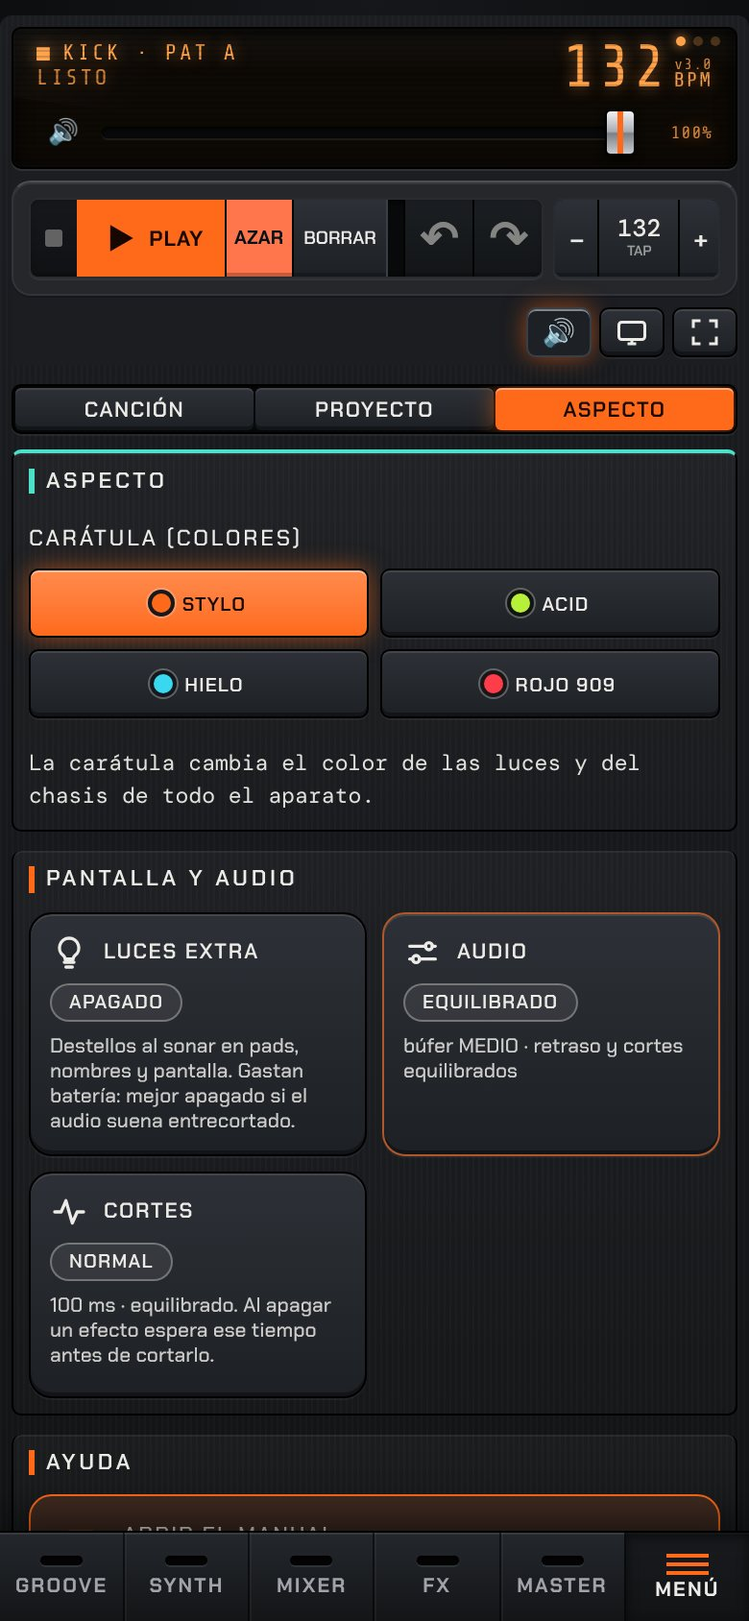
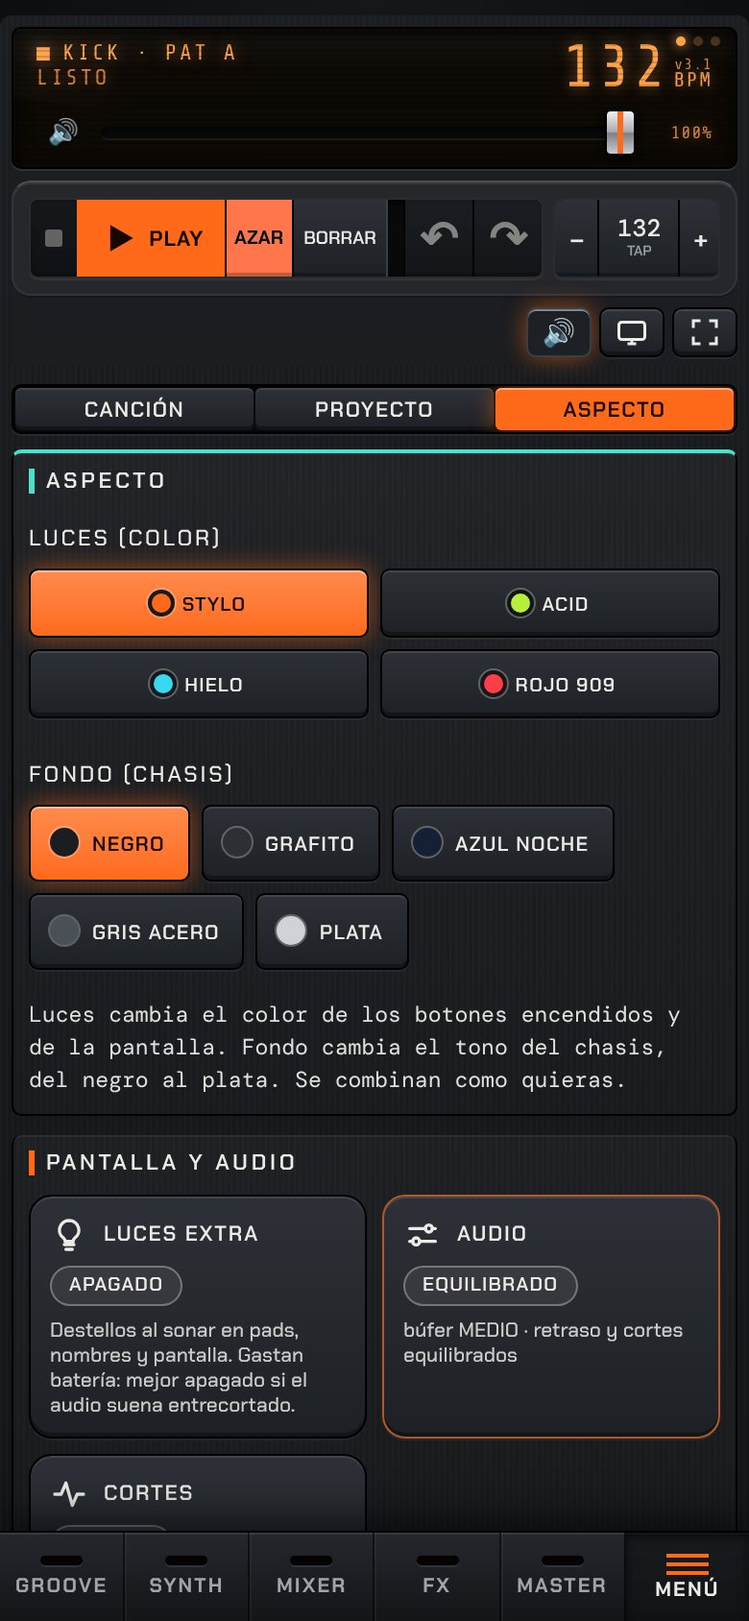
v3.1: selector de fondo del chasis (Negro, Grafito, Azul noche, Gris acero, Plata)
- Aspecto: fila Fondo aparte del color de las luces; se combinan.
- La pantalla, la rejilla y las ranuras siguen oscuras en todos.
- Ajuste del dispositivo (clave bg en SAVE); no cambia el guardado.
- Manual, captura de Aspecto, CHANGELOG y AGENTS.md actualizados.

Claude-Session: https://claude.ai/code/session_014KBobpF2M55M86nWwyjQnt

diff --git a/styles.css b/styles.css
@@ -1022,32 +1022,32 @@ body{padding-bottom:calc(var(--nav) + env(safe-area-inset-bottom,0px))}
 :root[data-skin="acid"]{--on:#b6f03a;--led:#b6f03a;--onfg:#0d1400;--lcd:#070c05;--lcdfg:#c4f45c;--dev:#161813;--dev2:#0f110d;--snd:#e0dccf}
 :root[data-skin="ice"]{--on:#3ad8f0;--led:#3ad8f0;--onfg:#001318;--lcd:#050b0e;--lcdfg:#6fe6f7;--dev:#15191d;--dev2:#0e1114;--snd:#d6dde2}
 :root[data-skin="rojo"]{--on:#ff4a55;--led:#ff4a55;--onfg:#1a0003;--lcd:#0e0607;--lcdfg:#ff7a82;--dev:#1b1819;--dev2:#121011;--snd:#e2d9d6}
-body{background:radial-gradient(120% 60% at 50% 0,#15171a 0,var(--page) 70%) fixed var(--page)}
+body{background:radial-gradient(120% 60% at 50% 0,var(--pg2) 0,var(--page) 70%) fixed var(--page)}
 .device{background:repeating-linear-gradient(90deg,rgba(255,255,255,.014) 0 1px,transparent 1px 3px),linear-gradient(180deg,var(--dev) 0,var(--dev2) 100%);box-shadow:inset 0 1px 0 rgba(255,255,255,.07)}
 :root :is(.step,.fn,.seg,.chip .nm,.nm2,.lcd,.card,select,.fad,.pn,.tg,.sk,.pre,.prb,.modeb,.more,.more2){border-radius:5px}
 
 /* pantalla: cristal hundido con texto de fósforo */
-.lcd{background:linear-gradient(180deg,rgba(255,255,255,.05),transparent 30%),var(--lcd);border:1px solid #000;box-shadow:inset 0 2px 10px #000,inset 0 0 0 1px rgba(255,255,255,.03),0 1px 0 rgba(255,255,255,.09);font-family:var(--lcdf)}
+.lcd{background:linear-gradient(180deg,rgba(255,255,255,.05),transparent 30%),var(--lcd);border:1px solid var(--ln);box-shadow:inset 0 2px 10px #000,inset 0 0 0 1px rgba(255,255,255,.03),0 1px 0 rgba(255,255,255,.09);font-family:var(--lcdf)}
 .lcd .l1,.lcd .l2,.lcd .big,.lcd .big small,.lcd output{font-family:var(--lcdf);text-shadow:0 0 8px color-mix(in srgb,var(--lcdfg) 55%,transparent)}
 .lcd .l1,.lcd .l2{font-size:11.5px;letter-spacing:.12em}
 .lcd .big{letter-spacing:.04em}
 .lcd .ver{font-family:var(--lcdf)}
 
 /* teclas: plástico con bisel; encendidas = retroiluminadas */
-.seg{background:var(--slot);border-color:#000;box-shadow:inset 0 1px 3px #000,0 1px 0 rgba(255,255,255,.06);gap:1px;padding:1px}
+.seg{background:var(--slot);border-color:var(--ln);box-shadow:inset 0 1px 3px #000,0 1px 0 rgba(255,255,255,.06);gap:1px;padding:1px}
 .seg>button,.seg>.val{border-left:0;border-radius:3px;background:linear-gradient(180deg,var(--key2),var(--key));box-shadow:inset 0 1px 0 rgba(255,255,255,.1),inset 0 -2px 0 rgba(0,0,0,.35);font-weight:600;font-size:11px;letter-spacing:.07em}
 .seg>button:active{background:var(--key);box-shadow:inset 0 2px 4px #000}
 .seg>button[aria-pressed="true"],.seg>button[aria-selected="true"]{background:linear-gradient(180deg,color-mix(in srgb,var(--on),#fff 22%),var(--on));color:var(--onfg);box-shadow:inset 0 1px 0 rgba(255,255,255,.45),0 0 12px color-mix(in srgb,var(--on) 55%,transparent)}
-.fn,.tg,.prb,.modeb,.pre,.card .sk{background:linear-gradient(180deg,var(--key2),var(--key));border:1px solid #000;box-shadow:inset 0 1px 0 rgba(255,255,255,.1),inset 0 -2px 0 rgba(0,0,0,.35),0 1px 0 rgba(255,255,255,.05);font-weight:600;color:var(--fg)}
+.fn,.tg,.prb,.modeb,.pre,.card .sk{background:linear-gradient(180deg,var(--key2),var(--key));border:1px solid var(--ln);box-shadow:inset 0 1px 0 rgba(255,255,255,.1),inset 0 -2px 0 rgba(0,0,0,.35),0 1px 0 rgba(255,255,255,.05);font-weight:600;color:var(--fg)}
 .fn{font-size:11px}.tg{font-size:10.5px;border-radius:4px}
 :is(.fn,.tg,.prb,.pre,.card .sk):active{box-shadow:inset 0 2px 5px #000}
-:is(.fn,.tg,.prb,.pre,.card .sk)[aria-pressed="true"]{background:linear-gradient(180deg,color-mix(in srgb,var(--on),#fff 22%),var(--on));color:var(--onfg);border-color:#000;box-shadow:inset 0 1px 0 rgba(255,255,255,.45),0 0 12px color-mix(in srgb,var(--on) 55%,transparent)}
+:is(.fn,.tg,.prb,.pre,.card .sk)[aria-pressed="true"]{background:linear-gradient(180deg,color-mix(in srgb,var(--on),#fff 22%),var(--on));color:var(--onfg);border-color:var(--ln);box-shadow:inset 0 1px 0 rgba(255,255,255,.45),0 0 12px color-mix(in srgb,var(--on) 55%,transparent)}
 .sdh .seg>button[aria-pressed="true"],.sdb .seg>button[aria-pressed="true"],.sdb .tg[aria-pressed="true"],.sdb .pre[aria-pressed="true"]{background:linear-gradient(180deg,#fff,var(--snd));color:var(--sndfg);box-shadow:inset 0 1px 0 #fff,0 0 10px color-mix(in srgb,var(--snd) 45%,transparent)}
 #play[aria-pressed="true"]{animation:none}
 .trans .seg{background:var(--slot)}
 
 /* paneles: placa atornillada con rótulo serigrafiado */
-.card,.more,.more2{background:linear-gradient(180deg,rgba(255,255,255,.035),rgba(255,255,255,.01));border:1px solid #000;box-shadow:inset 0 1px 0 rgba(255,255,255,.06)}
+.card,.more,.more2{background:linear-gradient(180deg,rgba(255,255,255,.035),rgba(255,255,255,.01));border:1px solid var(--ln);box-shadow:inset 0 1px 0 rgba(255,255,255,.06)}
 .card h3,.card .hd2 h3{font-size:11.5px;font-weight:600;letter-spacing:.16em;color:var(--fg)}
 .note,.hint{font-family:var(--mono);line-height:1.45}
 .k label{font-weight:600;letter-spacing:.08em}
@@ -1060,25 +1060,25 @@ input[type=range]{--tc:var(--on)}
 .sbp input[type=range]{--tc:#f0a040}
 input[type=range]::-webkit-slider-runnable-track{background:var(--slot);box-shadow:inset 0 1px 2px #000,0 1px 0 rgba(255,255,255,.07)}
 input[type=range]::-moz-range-track{background:var(--slot);box-shadow:inset 0 1px 2px #000,0 1px 0 rgba(255,255,255,.07)}
-input[type=range]::-webkit-slider-thumb,.fxc input[type=range]::-webkit-slider-thumb,.msbar input[type=range]::-webkit-slider-thumb,#t-canal input[type=range]::-webkit-slider-thumb,.sbp input[type=range]::-webkit-slider-thumb{width:16px;height:24px;margin-top:-9px;border-radius:3px;border:1px solid #000;background:linear-gradient(90deg,transparent 40%,var(--tc) 40% 60%,transparent 60%),linear-gradient(180deg,#f1f2f3 0,#a9adb3 48%,#7c8087 52%,#c9ccd0 100%);box-shadow:0 2px 4px rgba(0,0,0,.7)}
-input[type=range]::-moz-range-thumb,.fxc input[type=range]::-moz-range-thumb,.msbar input[type=range]::-moz-range-thumb,#t-canal input[type=range]::-moz-range-thumb,.sbp input[type=range]::-moz-range-thumb{width:14px;height:22px;border-radius:3px;border:1px solid #000;background:linear-gradient(90deg,transparent 40%,var(--tc) 40% 60%,transparent 60%),linear-gradient(180deg,#f1f2f3 0,#a9adb3 48%,#7c8087 52%,#c9ccd0 100%)}
+input[type=range]::-webkit-slider-thumb,.fxc input[type=range]::-webkit-slider-thumb,.msbar input[type=range]::-webkit-slider-thumb,#t-canal input[type=range]::-webkit-slider-thumb,.sbp input[type=range]::-webkit-slider-thumb{width:16px;height:24px;margin-top:-9px;border-radius:3px;border:1px solid var(--ln);background:linear-gradient(90deg,transparent 40%,var(--tc) 40% 60%,transparent 60%),linear-gradient(180deg,#f1f2f3 0,#a9adb3 48%,#7c8087 52%,#c9ccd0 100%);box-shadow:0 2px 4px rgba(0,0,0,.7)}
+input[type=range]::-moz-range-thumb,.fxc input[type=range]::-moz-range-thumb,.msbar input[type=range]::-moz-range-thumb,#t-canal input[type=range]::-moz-range-thumb,.sbp input[type=range]::-moz-range-thumb{width:14px;height:22px;border-radius:3px;border:1px solid var(--ln);background:linear-gradient(90deg,transparent 40%,var(--tc) 40% 60%,transparent 60%),linear-gradient(180deg,#f1f2f3 0,#a9adb3 48%,#7c8087 52%,#c9ccd0 100%)}
 .sbp input[type=range]::-webkit-slider-thumb{width:13px;height:18px;margin-top:-6.5px}
 .msbar input[type=range]::-webkit-slider-thumb,.dkm input[type=range]::-webkit-slider-thumb,.fxc input[type=range]::-webkit-slider-thumb{height:20px;margin-top:-7px}
 .fxc input[type=range]::-webkit-slider-runnable-track{background:linear-gradient(90deg,var(--c) var(--p,50%),var(--slot) var(--p,50%))}
 
 /* secuenciador: pads de goma con luz propia */
-#grid .step{background:linear-gradient(180deg,var(--key2),var(--key));border-color:#000;box-shadow:inset 0 1px 0 rgba(255,255,255,.08),inset 0 -2px 0 rgba(0,0,0,.4)}
-#grid .step.beat:not(.on){background:linear-gradient(180deg,color-mix(in srgb,var(--key2),#fff 9%),color-mix(in srgb,var(--key),#fff 7%));border-color:#000}
-#grid .step.on{background:linear-gradient(180deg,color-mix(in srgb,var(--c),#fff 28%),var(--c));border-color:#000;box-shadow:inset 0 1px 0 rgba(255,255,255,.5),0 0 9px color-mix(in srgb,var(--c) 60%,transparent)}
+#grid .step{background:linear-gradient(180deg,var(--key2),var(--key));border-color:var(--ln);box-shadow:inset 0 1px 0 rgba(255,255,255,.08),inset 0 -2px 0 rgba(0,0,0,.4)}
+#grid .step.beat:not(.on){background:linear-gradient(180deg,color-mix(in srgb,var(--key2),#fff 9%),color-mix(in srgb,var(--key),#fff 7%));border-color:var(--ln)}
+#grid .step.on{background:linear-gradient(180deg,color-mix(in srgb,var(--c),#fff 28%),var(--c));border-color:var(--ln);box-shadow:inset 0 1px 0 rgba(255,255,255,.5),0 0 9px color-mix(in srgb,var(--c) 60%,transparent)}
 #grid .step.on[data-v="3"]{box-shadow:inset 0 1px 0 rgba(255,255,255,.6),0 0 14px var(--c)}
 #grid .step.ph{box-shadow:inset 0 0 0 2px var(--fg)}
 #grid .step.ph:not(.on){background:color-mix(in srgb,var(--c) 30%,var(--key))}
 #grid .step.on.ph{box-shadow:inset 0 0 0 2px #fff,0 0 16px var(--c)}
-.mtx{background:var(--slot);border:1px solid #000;box-shadow:inset 0 2px 6px #000,0 1px 0 rgba(255,255,255,.06)}
+.mtx{background:var(--slot);border:1px solid var(--ln);box-shadow:inset 0 2px 6px #000,0 1px 0 rgba(255,255,255,.06)}
 #t-seq .rn,.rn{font-weight:700;font-size:10.5px;letter-spacing:.06em}
 
 /* barra de módulos: botones de modo con LED */
-.tabs{background:linear-gradient(180deg,#24272c,#131517);border-top:1px solid #000;box-shadow:inset 0 1px 0 rgba(255,255,255,.09),0 -8px 20px rgba(0,0,0,.55)}
+.tabs{background:linear-gradient(180deg,var(--nav1),var(--nav2));border-top:1px solid var(--ln);box-shadow:inset 0 1px 0 rgba(255,255,255,.09),0 -8px 20px rgba(0,0,0,.55)}
 .tabs>button{gap:6px;font-size:10.5px;font-weight:700;letter-spacing:.1em;color:var(--mute);border-left:1px solid rgba(0,0,0,.55);box-shadow:inset 1px 0 0 rgba(255,255,255,.04)}
 .tabs>button:first-child{border-left:0;box-shadow:none}
 .tabs>button i{display:block;width:22px;height:5px;border-radius:3px;background:#050506;box-shadow:inset 0 1px 2px #000,0 1px 0 rgba(255,255,255,.08);transition:none}
@@ -1091,19 +1091,19 @@ input[type=range]::-moz-range-thumb,.fxc input[type=range]::-moz-range-thumb,.ms
 .subtabs{margin-top:2px}
 
 /* mezclador: ranuras, capuchones y medidores de LED */
-.fad{background:var(--slot);border:1px solid #000;box-shadow:inset 0 2px 5px #000}
+.fad{background:var(--slot);border:1px solid var(--ln);box-shadow:inset 0 2px 5px #000}
 .meter{background:#040405;box-shadow:inset 0 1px 2px #000}
-.mg{background:linear-gradient(180deg,rgba(255,255,255,.035),rgba(255,255,255,.01));border-color:#000;box-shadow:inset 0 1px 0 rgba(255,255,255,.06)}
+.mg{background:linear-gradient(180deg,rgba(255,255,255,.035),rgba(255,255,255,.01));border-color:var(--ln);box-shadow:inset 0 1px 0 rgba(255,255,255,.06)}
 .nm2{font-weight:700}
 
 /* panel Sonido: módulo acoplado con frontal claro */
-.sdock{border-top:1px solid #000;background:linear-gradient(180deg,#202327,var(--dev2));box-shadow:0 -10px 22px rgba(0,0,0,.6),inset 0 1px 0 rgba(255,255,255,.1)}
-.sdh{background:transparent;border-bottom:1px solid #000}
-.sdh .seg{border-color:#000;background:var(--slot)}
+.sdock{border-top:1px solid var(--ln);background:linear-gradient(180deg,var(--dk1),var(--dev2));box-shadow:0 -10px 22px rgba(0,0,0,.6),inset 0 1px 0 rgba(255,255,255,.1)}
+.sdh{background:transparent;border-bottom:1px solid var(--ln)}
+.sdh .seg{border-color:var(--ln);background:var(--slot)}
 
 /* Master: medidores de pico y RMS */
 .vu{display:grid;grid-template-columns:38px 1fr 46px;align-items:center;gap:8px;font-family:var(--disp);font-size:10.5px;font-weight:700;letter-spacing:.1em;color:var(--fg)}
-.vub{position:relative;height:14px;border-radius:2px;background:#040405;border:1px solid #000;box-shadow:inset 0 1px 3px #000,0 1px 0 rgba(255,255,255,.07);overflow:hidden}
+.vub{position:relative;height:14px;border-radius:2px;background:#040405;border:1px solid var(--ln);box-shadow:inset 0 1px 3px #000,0 1px 0 rgba(255,255,255,.07);overflow:hidden}
 .vub i{position:absolute;inset:0;transform-origin:left;transform:scaleX(0);background:linear-gradient(90deg,#35d06a 0,#35d06a 70%,#f2c230 86%,#ff4034 100%);-webkit-mask:repeating-linear-gradient(90deg,#000 0 3px,transparent 3px 4px);mask:repeating-linear-gradient(90deg,#000 0 3px,transparent 3px 4px)}
 .vub u{position:absolute;top:0;bottom:0;width:2px;margin-left:-1px;left:0;background:#fff}
 .vu output{font-family:var(--lcdf);font-size:13px;text-align:right;color:var(--on);font-variant-numeric:tabular-nums}
@@ -1122,9 +1122,24 @@ input[type=range]::-moz-range-thumb,.fxc input[type=range]::-moz-range-thumb,.ms
 #t-mst>.note{padding-inline:8px}
 @media (prefers-reduced-motion:reduce){*{transition:none!important;animation:none!important}}
 /* fila de transporte y de patrones: sin desbordes a 360 px */
-.trans .seg{gap:0;padding:0}.trans .seg>button,.trans .seg>.val{border-radius:0;border-left:1px solid #000}.trans .seg>:first-child{border-left:0}
+.trans .seg{gap:0;padding:0}.trans .seg>button,.trans .seg>.val{border-radius:0;border-left:1px solid var(--ln)}.trans .seg>:first-child{border-left:0}
 .modeb{white-space:nowrap;letter-spacing:.02em;padding-inline:6px}
 @media (max-width:380px){.trans .seg .hd{flex:0 0 28px}.trans .seg>#bpmv{flex:1 0 38px}}
 @media (max-width:380px){.trans{grid-template-columns:minmax(0,1fr) 98px}.trans .seg>button.ur{min-width:28px;flex-basis:28px}}
 .ldots{top:4px;right:8px}.lcd .big .ver{bottom:14px;opacity:.8}
 @media (max-width:340px){.trans .seg>#rand,.trans .seg>#clear{font-size:7.5px;letter-spacing:0;padding:0}}
+
+/* ===== v3.1 Fondo del chasis: se elige aparte del color de las luces (data-bg). La pantalla y las ranuras siguen oscuras ===== */
+:root{--pg2:#15171a;--nav1:#24272c;--nav2:#131517;--dk1:#202327;--ln:#000;--ontx:var(--on)}
+:root[data-bg="grafito"]{--page:#16181b;--pg2:#25282c;--dev:#2c2f34;--dev2:#212327;--key:#2f3338;--key2:#40454c;--keyedge:#555a62;--slot:#111315;--track:#111315;--nav1:#383c42;--nav2:#25282c;--dk1:#34383d;--mute:#b6b9bf;--pfg:#b6b9bf;--ontx:color-mix(in srgb,var(--on),#fff 30%)}
+:root[data-bg="noche"]{--page:#060a13;--pg2:#111a2d;--dev:#152034;--dev2:#0d1524;--key:#17233a;--key2:#25344f;--keyedge:#3a4a68;--slot:#050912;--track:#050912;--nav1:#1f2b45;--nav2:#0e1626;--dk1:#1a2439;--mute:#a9b3c8;--pfg:#a9b3c8}
+:root[data-bg="acero"]{--page:#2a2e33;--pg2:#3d4249;--dev:#4a5058;--dev2:#3b4047;--key:#42484f;--key2:#58606a;--keyedge:#7a818a;--slot:#191c1f;--track:#191c1f;--nav1:#565d66;--nav2:#3c4148;--dk1:#4f555d;--fg:#f7f6f3;--mute:#dcdfe3;--pfg:#dcdfe3;--ontx:var(--fg)}
+:root[data-bg="plata"]{--page:#8d9197;--pg2:#a9adb3;--dev:#cfd2d6;--dev2:#bbbec3;--key:#c6c9ce;--key2:#eceef0;--keyedge:#7d828a;--slot:#26292d;--track:#26292d;--nav1:#e0e2e5;--nav2:#b5b9be;--dk1:#d7d9dd;--fg:#131518;--mute:#3a3f46;--pfg:#22252a;--ln:#555a62;--ontx:var(--fg);--lp:38%;--lt:#000;color-scheme:light}
+.k output,.smpn,.vu output{color:var(--ontx)}
+/* textos que van sobre ranuras oscuras (rejilla, selectores): siempre claros, sea cual sea el fondo */
+:root{--sfg:#ecebe7;--smute:#a9acb2}
+#t-seq .rn,.trk .rn{color:color-mix(in srgb,var(--c) 10%,var(--sfg))}
+.octr span,.pts .seg>.pc{color:var(--smute)}
+/* fondos claros: los textos con el color del canal pasan al color de letra normal para que se lean */
+:root:is([data-bg="acero"],[data-bg="plata"]) :is(#sndCh,#rollVo,.sdb #chipsCan .chip .nm,.mixlim .limin span){color:var(--fg)}
+.sdb #chipsCan .chip .nm[aria-pressed="true"]{color:#14110d!important}

diff --git a/app.js b/app.js
@@ -52,7 +52,7 @@ let P=[mk(),mk(),mk(),mk()];
 
 /* storage: per viewer only */
 const migLim=so=>{if(!so||typeof so.lim!=='number'||so.limv===3)return;if(so.limv!==2)so.lim=.5+so.lim/2;const ld=(so.lim-.5)*24;so.lig=Math.max(0,ld)/12;so.lim=Math.max(0,Math.min(1,(12-.05+Math.min(0,ld))/12));so.limv=3};
-const SAVE=['wbit','ovol','omute','scv','lat','xfade','dcomp','lights','snd','dockOpen','dockH','mfold','sb','awave','lwave','song','lanes','hum','mres','mhp','mhres','mmid','mmf','mair','mwid','aud','cho','flt','cr','cmp','bpm','swing','mdrive','mcut','mvol','lim','lig','limv','root','scale','wave','layer','chain','chainSet','rev','dly','sc','skin','style','lcdv','ui3','meq'];
+const SAVE=['bg','wbit','ovol','omute','scv','lat','xfade','dcomp','lights','snd','dockOpen','dockH','mfold','sb','awave','lwave','song','lanes','hum','mres','mhp','mhres','mmid','mmf','mair','mwid','aud','cho','flt','cr','cmp','bpm','swing','mdrive','mcut','mvol','lim','lig','limv','root','scale','wave','layer','chain','chainSet','rev','dly','sc','skin','style','lcdv','ui3','meq'];
 function saveMessage(t){const e=$('#saveState');if(e)e.textContent=t}
 /* guardar es costoso (JSON + localStorage): se agrupa en una sola escritura 400 ms después del último cambio y se fuerza al salir de la página */
 const saveNow=()=>{try{const s={};SAVE.forEach(k=>{s[k]=S[k]});localStorage.setItem('pulsostudio1',JSON.stringify({P,C,S:s}));saveMessage('Guardado en este dispositivo · '+new Date().toLocaleTimeString('es-ES',{hour:'2-digit',minute:'2-digit'}))}catch(e){saveMessage('No se pudo guardar en este dispositivo')}};
@@ -794,6 +794,11 @@ document.addEventListener('input',e=>{const k=e.target.dataset&&e.target.dataset
 /* ---------- skins ---------- */
 function skin(n){S.skin=n;document.documentElement.setAttribute('data-skin',n);
   $$('#skins button').forEach(b=>b.setAttribute('aria-pressed',b.dataset.k===n));eqCol=null;fxCol=null;if(sT()==='fx')FXDEF.forEach(d=>drawFxG(d.id));readCols();drawLcd()}
+/* fondo del chasis (v3.1): ajuste del dispositivo, independiente del color de las luces */
+const BGS=[['negro','Negro','#1b1d21'],['grafito','Grafito','#2c2f34'],['noche','Azul noche','#152034'],['acero','Gris acero','#4a5058'],['plata','Plata','#cfd2d6']];
+function bgSet(n){if(!BGS.some(b=>b[0]===n))n='negro';S.bg=n;const de=document.documentElement;if(n==='negro')de.removeAttribute('data-bg');else de.setAttribute('data-bg',n);const m=$('meta[name="theme-color"]');if(m)m.content=BGS.find(b=>b[0]===n)[2];
+  $$('#bgs button').forEach(b=>b.setAttribute('aria-pressed',b.dataset.k===n));skin(S.skin)}
+BGS.forEach(s=>{const b=document.createElement('button');b.className='sk';b.dataset.k=s[0];b.textContent=s[1];b.style.setProperty('--cs',s[2]);b.style.setProperty('--ca',s[2]);b.addEventListener('click',()=>{bgSet(s[0]);save()});$('#bgs').appendChild(b)});
 SKINS.forEach(s=>{const b=document.createElement('button');b.className='sk';b.dataset.k=s[0];b.textContent=s[1];b.style.setProperty('--cs',s[2]);b.style.setProperty('--ca',s[3]);b.addEventListener('click',()=>{skin(s[0]);save()});$('#skins').appendChild(b)});
 
 /* ---------- visuals, style, stage, undo, iOS ---------- */
@@ -1330,5 +1335,5 @@ $('#t-song').addEventListener('input',e=>{const id=e.target.dataset.lv;if(!id)re
 
 function upd(){updLcd();renderChips();renderNotes();updGrid();renderPbar();updSteppers();if(S.tab==='roll')renderRoll()}
 rs.value=S.root;ss.value=S.scale;
-paintEqStyle();renderKits();buildMix();buildDock();renderFx();renderMsBar();renderMixLim();renderMstFx();renderCanal();skin(S.skin);upd();setLcd(S.lcdv);showTab(S.tab);setTimeout(fromHash,0);histCur=histSer();hBtn();
+paintEqStyle();renderKits();buildMix();buildDock();renderFx();renderMsBar();renderMixLim();renderMstFx();renderCanal();bgSet(S.bg);upd();setLcd(S.lcdv);showTab(S.tab);setTimeout(fromHash,0);histCur=histSer();hBtn();
 })();

diff --git a/index.html b/index.html
@@ -1,4 +1,4 @@
-<!doctype html><html><head><meta charset=utf8><meta name=viewport content="width=device-width,initial-scale=1,viewport-fit=cover"><meta name="theme-color" content="#0c0d0f"><meta name="mobile-web-app-capable" content="yes"><meta name="apple-mobile-web-app-capable" content="yes"><meta name="apple-mobile-web-app-status-bar-style" content="black-translucent"><link rel="manifest" href="./manifest.webmanifest"><link rel="icon" href="./icon.svg" type="image/svg+xml"><link rel="stylesheet" href="./styles.css?v=3.0">
+<!doctype html><html><head><meta charset=utf8><meta name=viewport content="width=device-width,initial-scale=1,viewport-fit=cover"><meta name="theme-color" content="#0c0d0f"><meta name="mobile-web-app-capable" content="yes"><meta name="apple-mobile-web-app-capable" content="yes"><meta name="apple-mobile-web-app-status-bar-style" content="black-translucent"><link rel="manifest" href="./manifest.webmanifest"><link rel="icon" href="./icon.svg" type="image/svg+xml"><link rel="stylesheet" href="./styles.css?v=3.1">
 <title>Pulso Studio · Tu groovebox en el móvil</title>
 <meta name="description" content="Secuenciador de 16 pasos y pads para crear ritmos desde el móvil. Por Pulso Lab.">
 <meta property="og:type" content="website">
@@ -25,7 +25,7 @@
     <div class="head">
       <div class="lcd" id="lcd" data-v="info" role="button" tabindex="0" aria-label="Cambiar pantalla: info, onda o espectro">
         <div class="l1" id="l1">■ KICK · PAT A</div>
-        <div class="big"><span id="lb">132</span><small>BPM</small><span class="ver" aria-label="Versión v3.0">v3.0</span></div>
+        <div class="big"><span id="lb">132</span><small>BPM</small><span class="ver" aria-label="Versión v3.1">v3.1</span></div>
         <div class="l2" id="l2">LISTO</div><div class="lsteps" id="lsteps" aria-hidden="true"></div><canvas id="scope" aria-hidden="true"></canvas><span class="md" id="md"></span><span class="ldots" aria-hidden="true"><i></i><i></i><i></i></span>
         <div class="lvol" id="lvol"><button type="button" id="lmute" aria-label="Silenciar" aria-pressed="false">🔊</button><input id="lvr" type="range" min="0" max="100" step="1" value="100" aria-label="Volumen de escucha"><output id="lvo" for="lvr">100%</output></div>
       </div>
@@ -142,8 +142,9 @@
 <section id="t-look" class="tab" hidden>
       <div class="card" id="skinCard">
         <h3>Aspecto</h3>
-        <div class="skins"><span>Carátula (colores)</span><div id="skins" role="group" aria-label="Carátula"></div></div>
-        <p class="note">La carátula cambia el color de las luces y del chasis de todo el aparato.</p>
+        <div class="skins"><span>Luces (color)</span><div id="skins" role="group" aria-label="Color de las luces"></div></div>
+        <div class="skins"><span>Fondo (chasis)</span><div id="bgs" role="group" aria-label="Fondo del chasis"></div></div>
+        <p class="note">Luces cambia el color de los botones encendidos y de la pantalla. Fondo cambia el tono del chasis, del negro al plata. Se combinan como quieras.</p>
       </div>
       <div class="card" id="viewCard">
         <h3>Pantalla y audio</h3>
@@ -306,6 +307,6 @@
   
 </main>
 
-<script src="./app.js?v=3.0"></script>
+<script src="./app.js?v=3.1"></script>
 
 </body></html>

diff --git a/MANUAL.md b/MANUAL.md
@@ -113,7 +113,7 @@ Deshacer y rehacer guardan **todo el proyecto**, no solo las notas: secuencia, c
 - Mover un deslizador **sin soltar** cuenta como un solo paso, aunque hagas pausas.
 - Grabar con los pads es un solo paso.
 - El mensaje de la pantallita dice qué se deshizo: SECUENCIA, MEZCLA, FX, EQ…
-- **No entran** la carátula, las luces, el audio ni Play, Pausa y Stop.
+- **No entran** el color de las luces, el fondo, las luces extra, el audio ni Play, Pausa y Stop.
 
 ## 4. Pads
 
@@ -305,7 +305,8 @@ Está en **Menú → Aspecto**. Cambia cómo se ve la app y da acceso a este man
 
 ![Pestaña Aspecto](manual/img/08-aspecto.jpg)
 
-- **Carátula (colores):** cuatro carátulas del mismo diseño de hardware: **Stylo** (naranja), **Acid** (verde), **Hielo** (cian) y **Rojo 909**. Cambian el color de las luces, de la pantalla y el tinte del chasis. Si tenías una carátula antigua, la app pasa sola a Stylo.
+- **Luces (color):** cuatro colores para los botones encendidos y la pantalla: **Stylo** (naranja), **Acid** (verde), **Hielo** (cian) y **Rojo 909**.
+- **Fondo (chasis):** el tono del aparato: **Negro**, **Grafito**, **Azul noche**, **Gris acero** y **Plata** (claro, con letras oscuras). Se combina con cualquier color de luces. La pantalla y las ranuras de los controles siguen oscuras en todos. Se recuerda en este dispositivo; no viaja en el proyecto.
 - **Luces extra:** destellos al sonar en pads, nombres y pantalla. Gastan batería, así que viene **apagado**. Si el audio suena entrecortado, déjalo apagado.
 - **Audio:** **Rápido**, **Equilibrado** o **Estable**. Es el tamaño del búfer de audio: más búfer, más retraso al tocar pero menos cortes. El cambio se aplica **al recargar** la página.
 - **Ayuda · Abrir el manual:** el botón que abre este manual, al final de la pestaña.

diff --git a/CHANGELOG.md b/CHANGELOG.md
@@ -571,6 +571,12 @@ Mejoras previstas: 1) pantalla completa y pestañas abajo, 2) gestos y vibració
 - Revisión antes de publicar: al abrir la app la fila Secuenciador / Pads salía vacía hasta tocar un módulo (corregido); Azar y Borrar ya no se cortan a 320 px; color de la app instalada actualizado. Probado con pantalla táctil emulada (iPhone 13, iPhone SE, Pixel 5 e iPad Mini).
 - Para revertir: git revert del commit v3.0.
 
+## v3.1 (2026-11-10) — Claude
+- Aspecto: nuevo selector "Fondo (chasis)" con cinco tonos: Negro (el de siempre), Grafito, Azul noche, Gris acero y Plata (claro, con letras oscuras). Va aparte del color de las luces (antes "Carátula", ahora "Luces"), así que se combinan como quieras.
+- La pantalla, la rejilla y las ranuras de los faders siguen oscuras en todos los fondos. En los fondos claros, los textos que iban con el color del canal o de las luces pasan al color de letra normal para que se lean.
+- El fondo es un ajuste del dispositivo (clave bg en SAVE): se recuerda en el móvil y no viaja en el .json. No cambia el audio ni el formato de guardado.
+- Para revertir: git revert del commit v3.1.
+
 ## Manual (2026-10-31) — Claude
 - Manual actualizado a la v2.86: capturas nuevas de todas las pantallas (390x844 a doble resolucion) y secciones nuevas o reescritas de Transporte (Stop, Pausa, Azar que muta), Pads (Bateria y Notas), Piano roll, Mix (Limitador con Techo y Entrada, Master tumbado), FX, EQ y Consejos.
 - Galeria de vistas justo despues del indice: 12 miniaturas rotuladas (Crear: Secuenciador, Modos de paso, Pads Bateria, Pads Notas, Piano roll melodico y de bateria; Panel Sonido: Macro, Canal, Mix, Mix con master desplegado, FX y EQ). Cada una lleva a su seccion. En GitHub se ve como tabla y en manual.html como cuadricula de 2 o 3 columnas.

diff --git a/AGENTS.md b/AGENTS.md
@@ -21,7 +21,7 @@ Sigue la sección *Versionado* de [README.md](README.md). Siempre con `tools/bum
 
 ## Decisiones del usuario que se respetan
 - Navegación por módulos (v3.0): Groove, Synth, Mixer, FX (Efectos y Ecualizador), Master y Menú (Canción, Proyecto, Aspecto). El panel fijo "Sonido" (Macro y Canal) acompaña a Groove y Synth. Cada canal conserva su color en Canal, Mixer y EQ.
-- Diseño STYLO de hardware con 4 carátulas (Stylo, Acid, Hielo, Rojo 909): son solo variables de color al final de `styles.css`. No se añaden carátulas claras ni estilos alternativos sin pedirlo.
+- Diseño STYLO de hardware. En Aspecto se eligen por separado las **Luces** (Stylo, Acid, Hielo, Rojo 909; `data-skin`) y el **Fondo** del chasis (Negro, Grafito, Azul noche, Gris acero, Plata; `data-bg`, clave `bg` en `SAVE`). Son solo variables de color al final de `styles.css`. La pantalla y las ranuras siguen oscuras en todos los fondos. No se añaden más sin pedirlo.
 - Al reproducir solo se anima el cursor del secuenciador (luces extra apagadas por defecto), para gastar poco.
 - Botones y letras deben leerse bien en todas las carátulas (contraste mínimo 4,5:1).
 - Si cambias la interfaz, rehaz las capturas de `manual/img/` (script `tools/capturas-manual.js`) y actualiza `MANUAL.md`.
